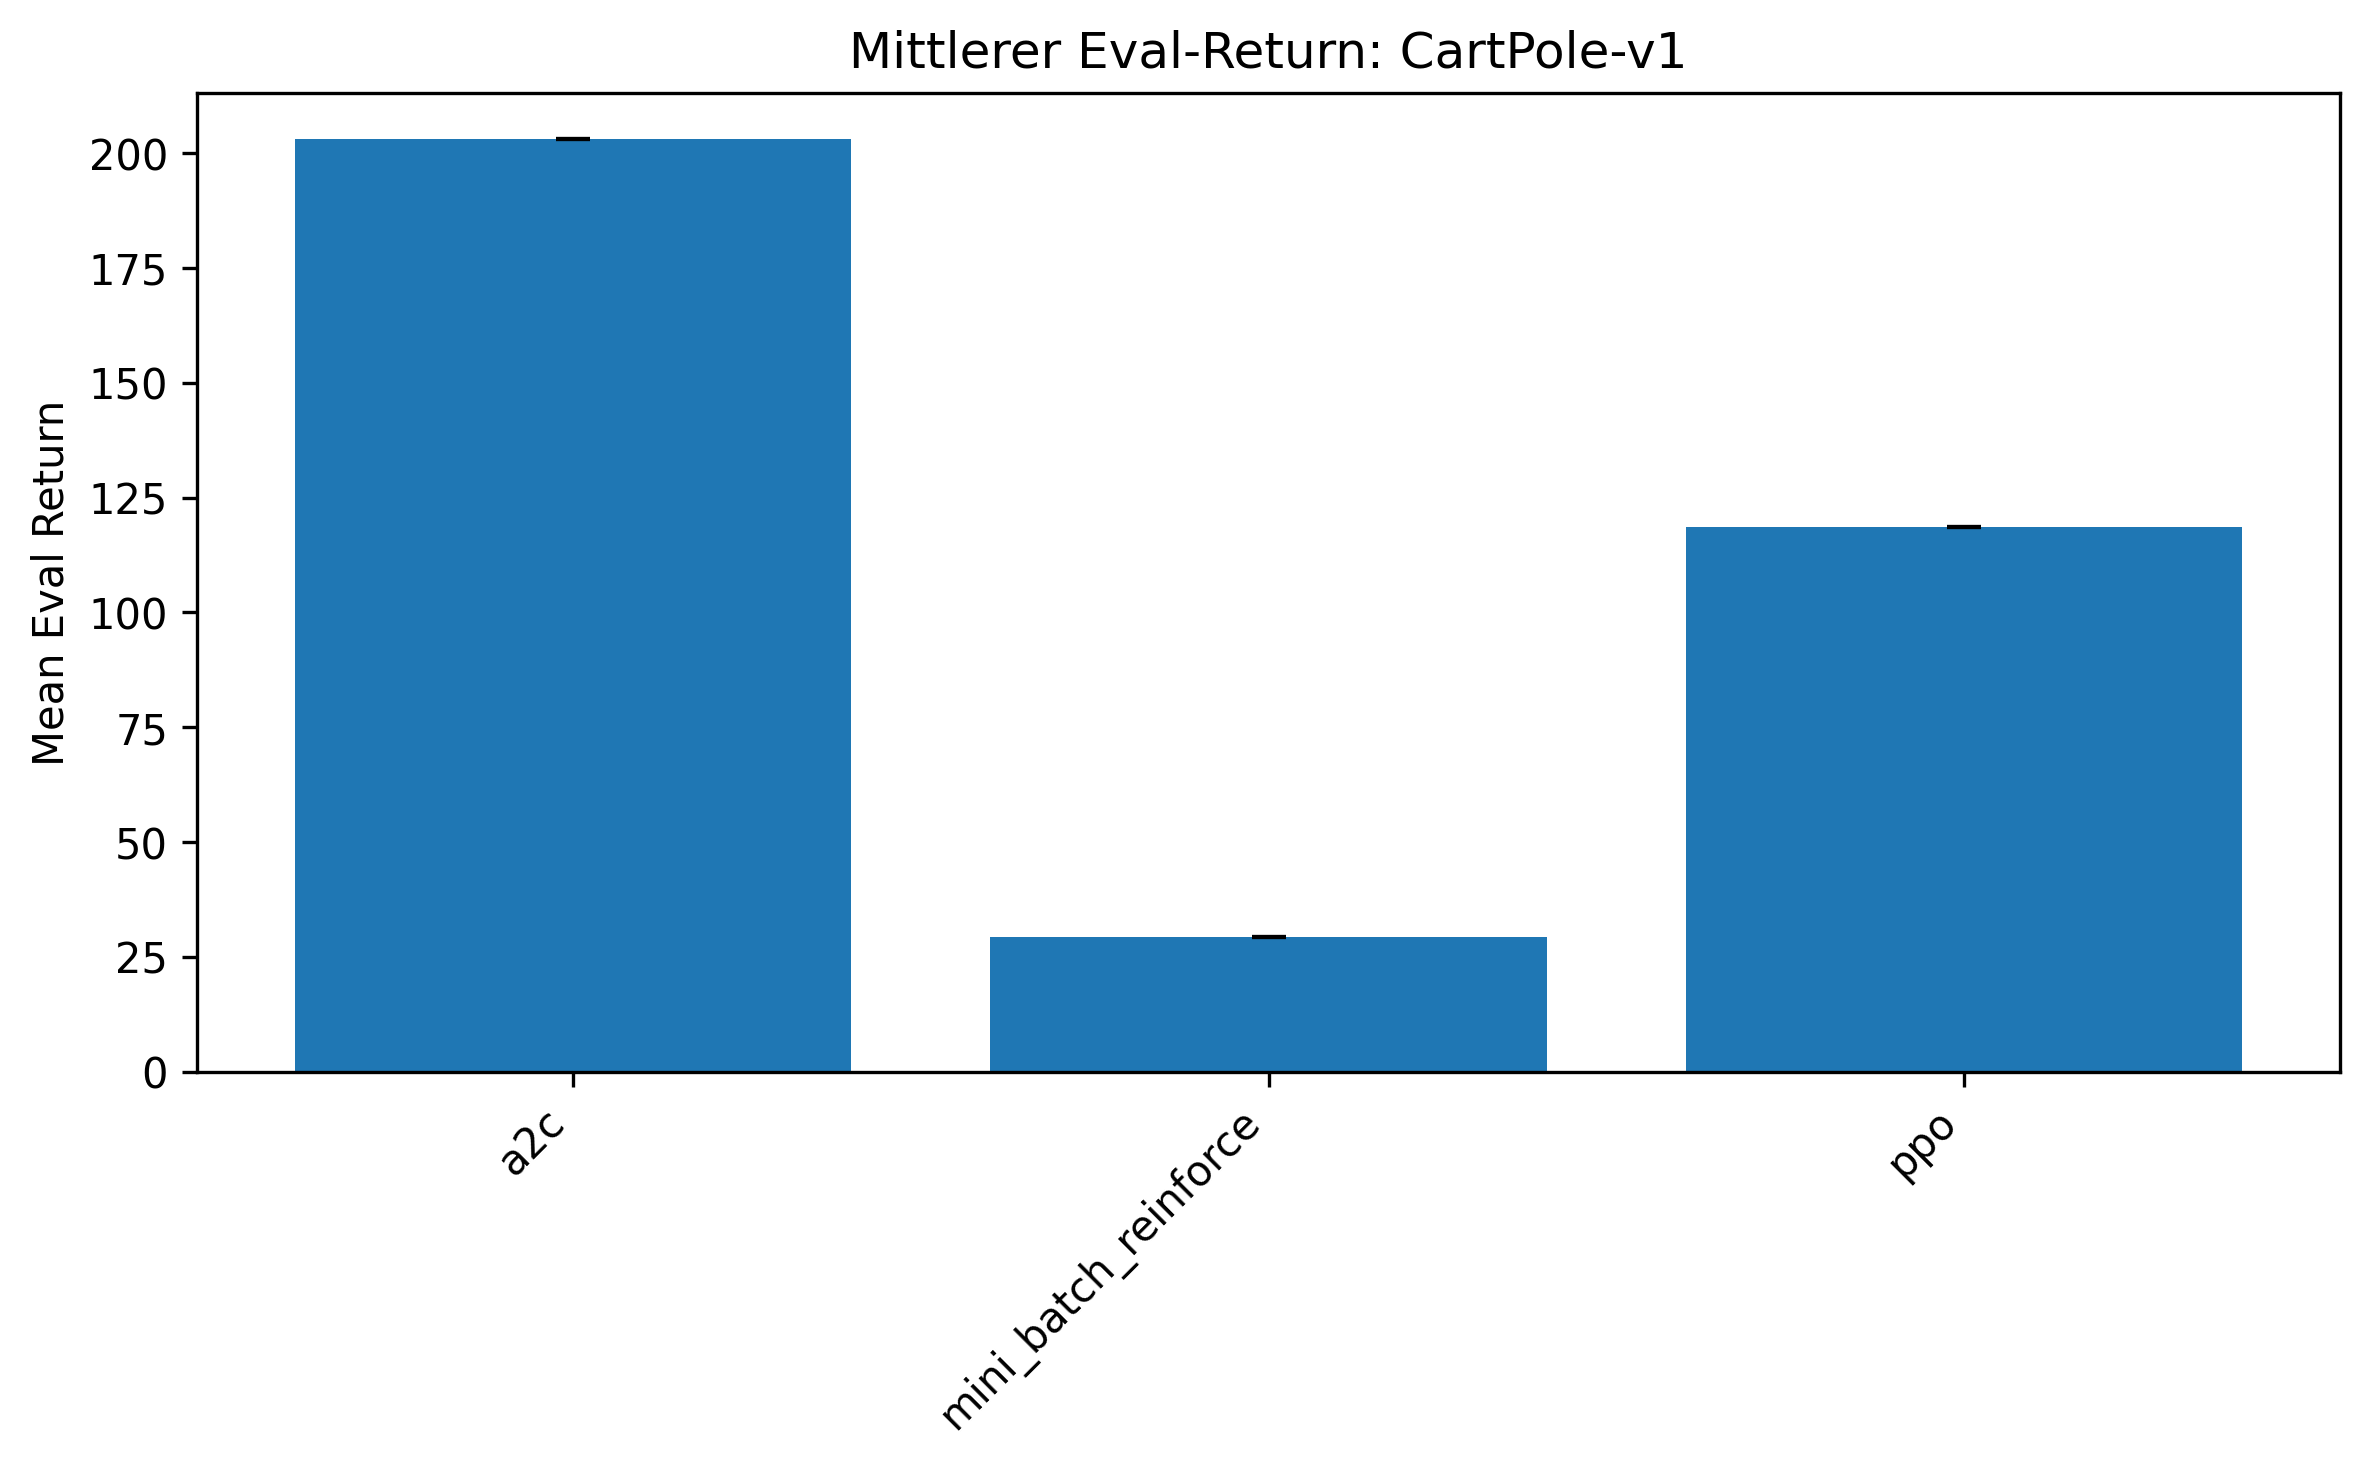
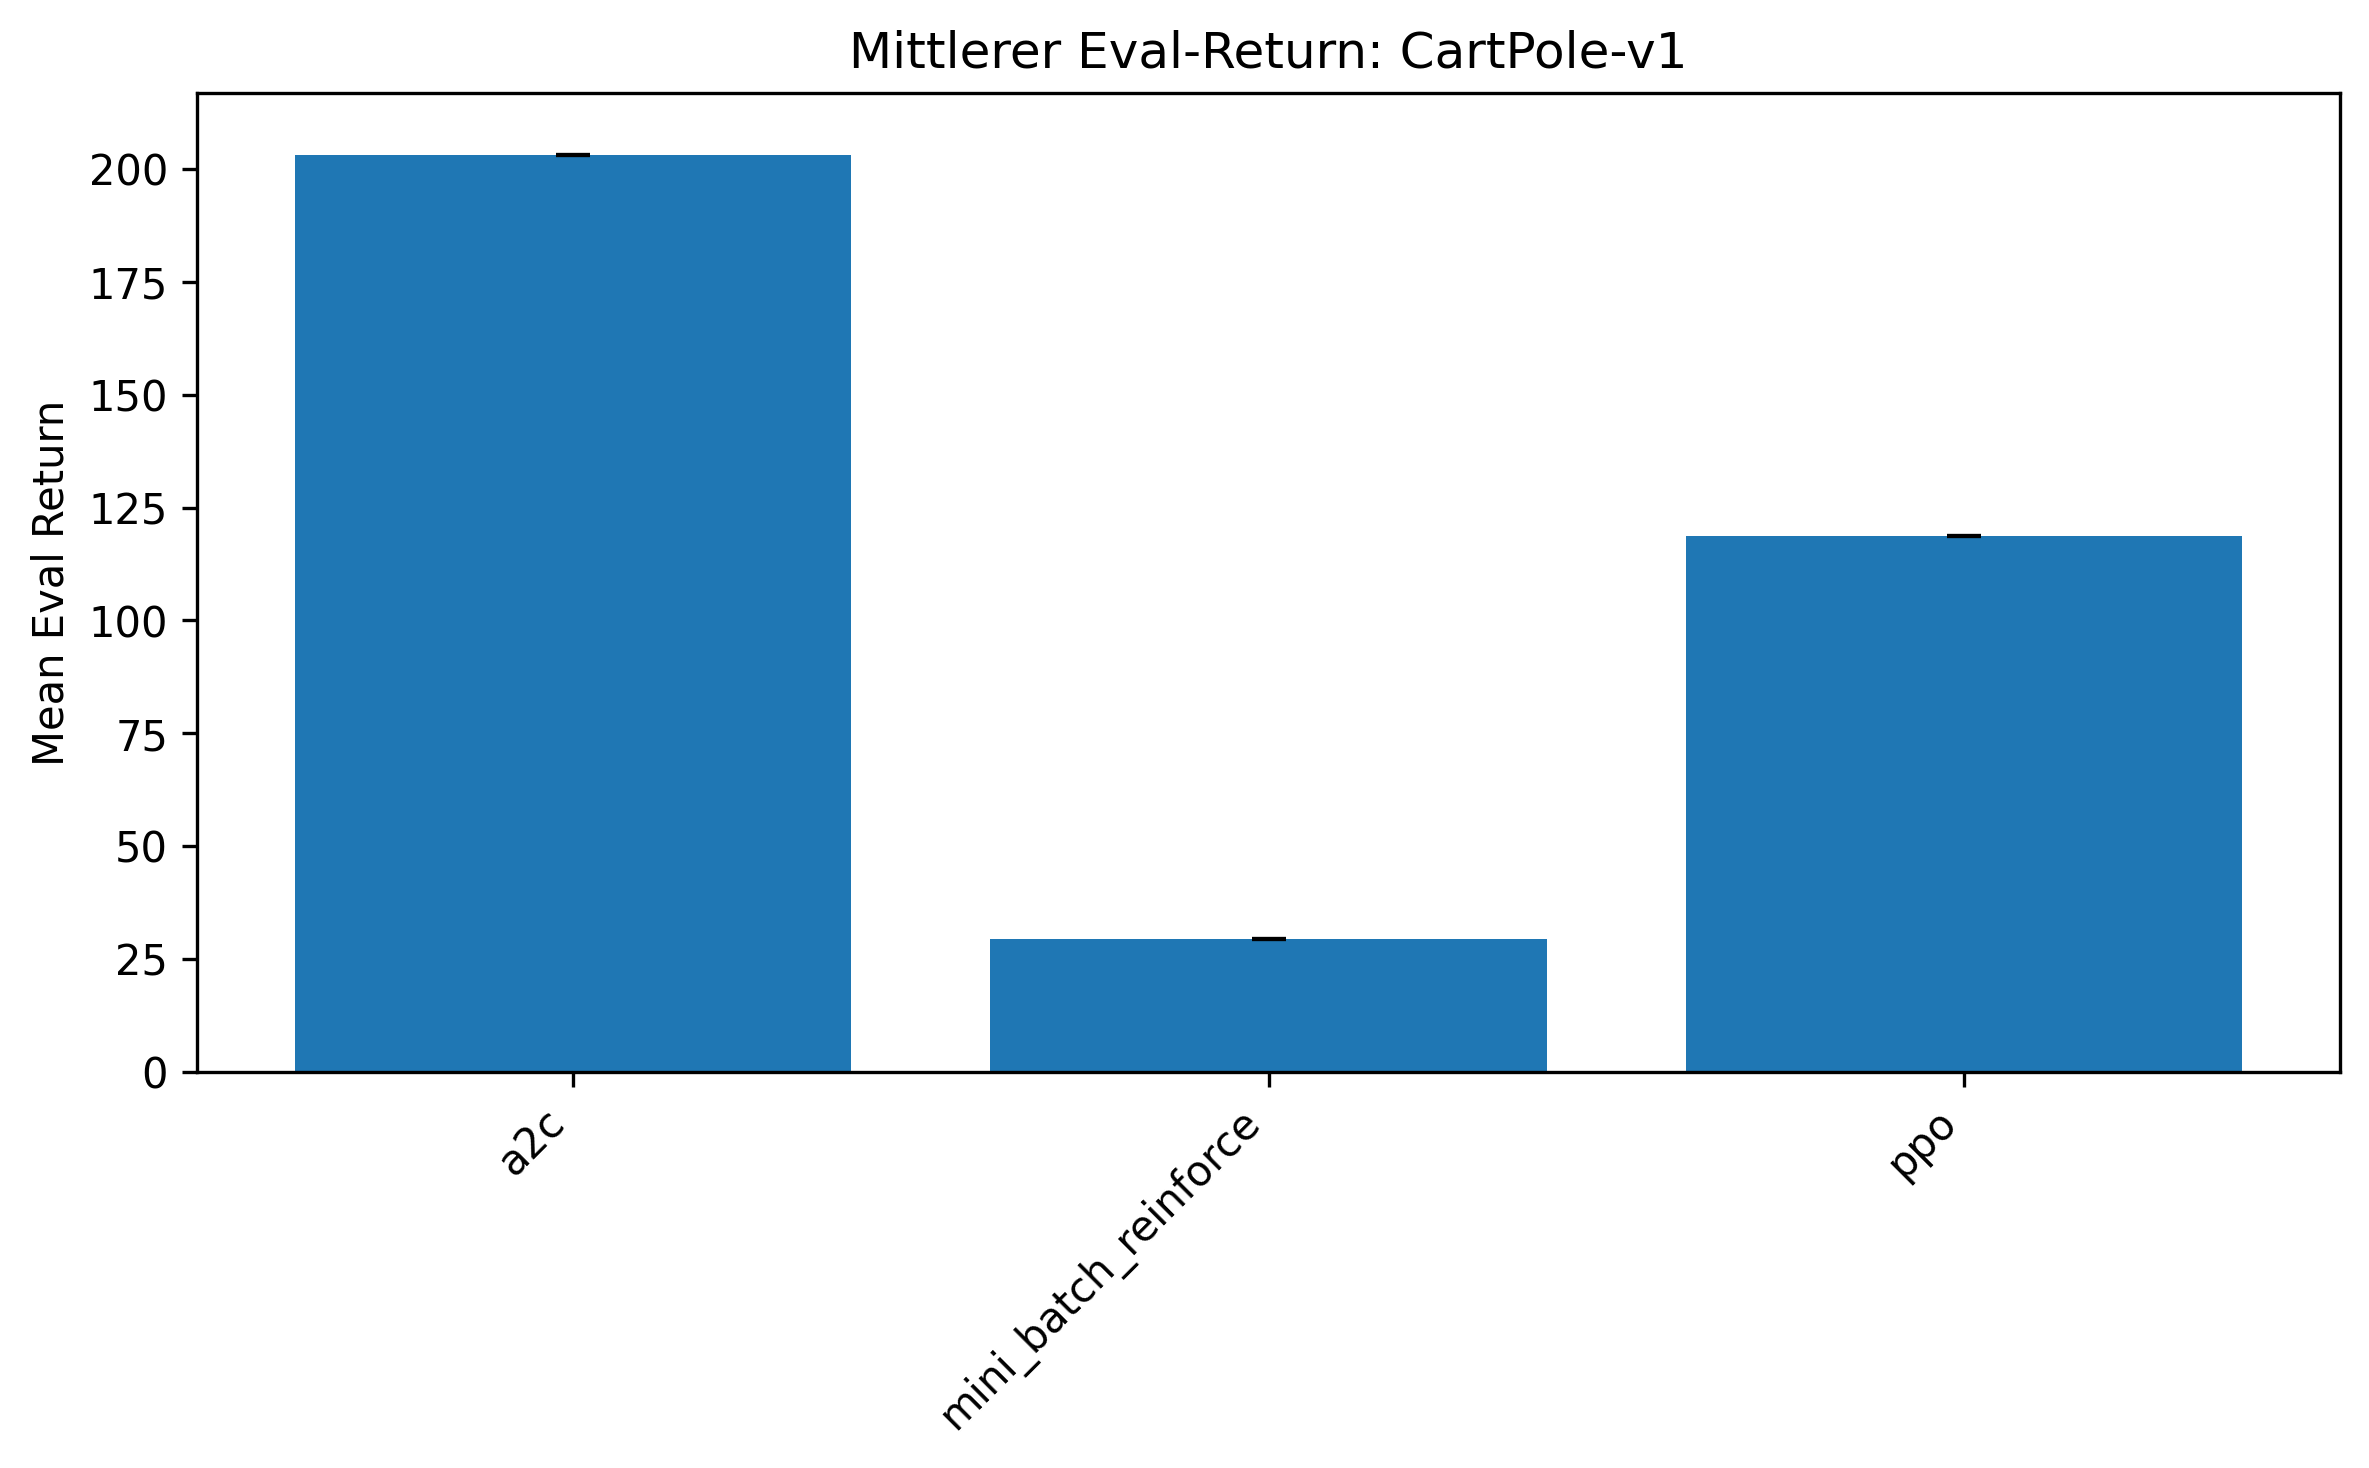
fix(plots): anchor negative-value bar charts at data minimum
Balken wachsen jetzt stets nach oben: wenn alle Mittelwerte einer
Familie negativ sind, wird der Balken-Ursprung auf das Datenminimum
gesetzt (bottom-Parameter) statt auf 0. Betrifft plot_metric_bar
(task_a) und _plot_metric_grid (task_b). Y-Limits explizit gesetzt.

diff --git a/actor_critic_project/experiments/submission/task_b_metric_reflection.py b/actor_critic_project/experiments/submission/task_b_metric_reflection.py
@@ -196,6 +196,9 @@ def _plot_metric_grid(metrics_df: pd.DataFrame, figure_dir: pathlib.Path) -> Non
             ax.set_visible(False)
             continue
 
+        all_bar_tops: list[float] = []
+        all_bar_bottoms: list[float] = []
+
         for fam in families:
             sub = metrics_df[metrics_df["family"] == fam].copy()
             if sub.empty:
@@ -205,12 +208,41 @@ def _plot_metric_grid(metrics_df: pd.DataFrame, figure_dir: pathlib.Path) -> Non
             stds = grouped.std(ddof=0).fillna(0.0)
             x = np.arange(len(means))
             offset = -0.2 if fam == "tabular" else 0.2
-            ax.bar(
-                x + offset, means.values, 0.35, yerr=stds.values,
-                label=fam, color=colors.get(fam, "gray"), capsize=3, alpha=0.85,
-            )
+
+            finite = [(m, s) for m, s in zip(means.values, stds.values) if np.isfinite(m)]
+            if finite and max(m for m, s in finite) <= 0:
+                # Alle Mittelwerte dieser Family negativ: Balken nach oben verankern
+                base = min(m - s for m, s in finite)
+                base -= max(abs(base) * 0.05, 0.01)
+                heights = [m - base if np.isfinite(m) else 0.0 for m in means.values]
+                ax.bar(
+                    x + offset, heights, 0.35, bottom=base, yerr=stds.values,
+                    label=fam, color=colors.get(fam, "gray"), capsize=3, alpha=0.85,
+                )
+                mask = np.isfinite(means.values)
+                # Tops: Mittelwert + Std (Bereich der Fehlerbalken)
+                all_bar_tops.extend((means.values[mask] + stds.values[mask]).tolist())
+                all_bar_bottoms.append(base)
+            else:
+                ax.bar(
+                    x + offset, means.values, 0.35, yerr=stds.values,
+                    label=fam, color=colors.get(fam, "gray"), capsize=3, alpha=0.85,
+                )
+                mask = np.isfinite(means.values)
+                all_bar_tops.extend((means.values[mask] + stds.values[mask]).tolist())
+                all_bar_bottoms.extend((means.values[mask] - stds.values[mask]).tolist())
+
             ax.set_xticks(x)
             ax.set_xticklabels(means.index, rotation=30, ha="right", fontsize=7)
+
+        # Explizite ylim: stets steigend nach oben, Datenbereich vollstaendig sichtbar
+        if all_bar_tops and all_bar_bottoms:
+            dmin = min(all_bar_bottoms)
+            dmax = max(all_bar_tops)
+            pad = max((dmax - dmin) * 0.08, 0.01)
+            ymin = dmin - pad if dmin <= 0 else 0
+            ymax = dmax + pad if dmax >= 0 else 0
+            ax.set_ylim(ymin, ymax)
 
         ax.set_title(title, fontsize=9)
         ax.set_xlabel("Algorithmus", fontsize=8)

diff --git a/actor_critic_project/utils/plotting.py b/actor_critic_project/utils/plotting.py
@@ -117,7 +117,26 @@ def plot_metric_bar(
     stds = [float(np.std(v)) for v in per_algo_metric.values()]
 
     x = np.arange(len(algos))
-    ax.bar(x, means, yerr=stds, capsize=4)
+
+    finite = [(m, s) for m, s in zip(means, stds) if np.isfinite(m)]
+    if finite:
+        data_min = min(m - s for m, s in finite)
+        data_max = max(m + s for m, s in finite)
+        pad = max((data_max - data_min) * 0.08, abs(data_max) * 0.05, 0.5)
+
+        if max(m for m, _ in finite) <= 0:
+            # Alle Werte negativ: Balken ab gemeinsamem Minimum nach oben verankern.
+            base = data_min - pad
+            heights = [m - base for m in means]
+            ax.bar(x, heights, bottom=base, yerr=stds, capsize=4)
+            ax.set_ylim(base - pad * 0.2, data_max + pad)
+        else:
+            ax.bar(x, means, yerr=stds, capsize=4)
+            ymin = min(data_min - pad, 0) if data_min < 0 else 0
+            ax.set_ylim(ymin, data_max + pad)
+    else:
+        ax.bar(x, means, yerr=stds, capsize=4)
+
     ax.set_xticks(x)
     ax.set_xticklabels(algos, rotation=45, ha="right")
     ax.set_ylabel(metric_name)
